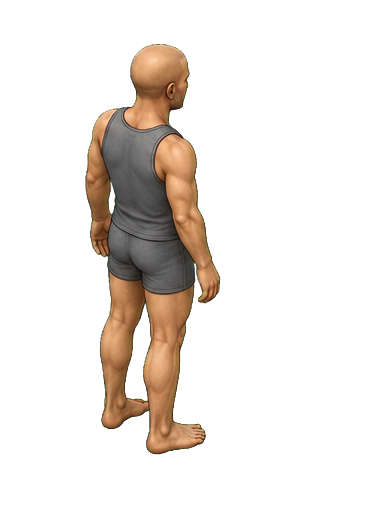
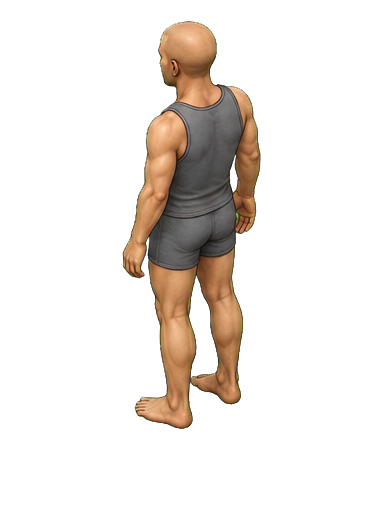
Add modular skin and classic outfit layers

Changed region(s): [[0.2188, 0.0312, 0.6875, 0.9062]]

diff --git a/tools/process-character-layer.py b/tools/process-character-layer.py
@@ -1,0 +1,112 @@
+#!/usr/bin/env python3
+"""Fit a pose-locked red/blue calibration atlas to an accepted body atlas.
+
+The source is a chroma-removed 4x2 RGBA atlas ordered clockwise from south:
+south, south-west, west, north-west, north, north-east, east, south-east.
+Red is the primary tint channel and blue is the secondary tint channel.
+"""
+
+from argparse import ArgumentParser
+from pathlib import Path
+
+import numpy as np
+from PIL import Image
+from scipy import ndimage
+
+DIRECTIONS = [
+    "south", "south_west", "west", "north_west",
+    "north", "north_east", "east", "south_east",
+]
+
+
+def bounds(alpha: np.ndarray) -> tuple[int, int, int, int]:
+    ys, xs = np.where(alpha > 20)
+    if not len(xs):
+        raise ValueError("atlas cell has no opaque subject")
+    return int(xs.min()), int(ys.min()), int(xs.max() + 1), int(ys.max() + 1)
+
+
+def major_components(mask: np.ndarray, count: int = 2, minimum: int = 80) -> np.ndarray:
+    labels, _ = ndimage.label(mask)
+    sizes = np.bincount(labels.ravel())
+    order = np.argsort(sizes[1:])[::-1] + 1
+    result = np.zeros_like(mask, dtype=bool)
+    for label in order[:count]:
+        if sizes[label] >= minimum:
+            result |= labels == label
+    return ndimage.binary_closing(result, iterations=1)
+
+
+def mask_image(mask: np.ndarray, alpha: np.ndarray) -> Image.Image:
+    output = np.zeros((*mask.shape, 4), dtype=np.uint8)
+    output[:, :, :3] = 255
+    output[:, :, 3] = np.where(mask, alpha, 0).astype(np.uint8)
+    return Image.fromarray(output, "RGBA")
+
+
+def neutral_diffuse(source: np.ndarray, keep: np.ndarray, primary: np.ndarray) -> Image.Image:
+    output = source.copy()
+    rgb = output[:, :, :3].astype(np.float32)
+    luminance = (rgb[:, :, 0] * .2126 + rgb[:, :, 1] * .7152 + rgb[:, :, 2] * .0722)
+    primary_value = np.clip(78 + luminance * .68, 70, 230)
+    secondary_value = np.clip(45 + luminance * .56, 42, 190)
+    values = np.where(primary, primary_value, secondary_value).astype(np.uint8)
+    output[:, :, 0] = values
+    output[:, :, 1] = values
+    output[:, :, 2] = values
+    output[:, :, 3] = np.where(keep, output[:, :, 3], 0).astype(np.uint8)
+    return Image.fromarray(output, "RGBA")
+
+
+def main() -> None:
+    parser = ArgumentParser()
+    parser.add_argument("--source", required=True, help="Chroma-removed 1536x1024 RGBA atlas")
+    parser.add_argument("--body", required=True, choices=["base-a", "base-b"])
+    parser.add_argument("--layer", required=True)
+    parser.add_argument("--root", default=".")
+    args = parser.parse_args()
+
+    root = Path(args.root).resolve()
+    source = Image.open(args.source).convert("RGBA")
+    if source.size != (1536, 1024):
+        raise ValueError(f"expected 1536x1024 source, got {source.size}")
+
+    output_root = root / "apps/client-godot/assets/characters/outfits" / args.layer / args.body / "idle"
+    for kind in ("diffuse", "primary-mask", "secondary-mask"):
+        (output_root / kind).mkdir(parents=True, exist_ok=True)
+
+    for index, direction in enumerate(DIRECTIONS):
+        x = index % 4 * 384
+        y = index // 4 * 512
+        cell = source.crop((x, y, x + 384, y + 512)).convert("RGBA")
+        body_path = root / "apps/client-godot/assets/characters/body" / args.body / "idle" / f"{direction}.png"
+        body = Image.open(body_path).convert("RGBA")
+        cell_box = bounds(np.array(cell)[:, :, 3])
+        body_box = bounds(np.array(body)[:, :, 3])
+        fitted = cell.crop(cell_box).resize(
+            (body_box[2] - body_box[0], body_box[3] - body_box[1]),
+            Image.Resampling.LANCZOS,
+        )
+        aligned = Image.new("RGBA", (384, 512), (0, 0, 0, 0))
+        aligned.alpha_composite(fitted, (body_box[0], body_box[1]))
+        pixels = np.array(aligned)
+        alpha = pixels[:, :, 3]
+        hsv = np.array(aligned.convert("HSV"))
+        hue, saturation, value = hsv[:, :, 0], hsv[:, :, 1], hsv[:, :, 2]
+        primary = (alpha > 0) & ((hue < 12) | (hue > 245)) & (saturation > 105) & (value > 32)
+        secondary = (alpha > 0) & (hue >= 145) & (hue <= 190) & (saturation > 100) & (value > 30)
+        primary = major_components(primary)
+        secondary = major_components(secondary)
+        keep = primary | secondary
+        if keep.sum() < 1000:
+            raise ValueError(f"{direction}: calibration channels cover only {keep.sum()} pixels")
+
+        neutral_diffuse(pixels, keep, primary).save(output_root / "diffuse" / f"{direction}.png")
+        mask_image(primary, alpha).save(output_root / "primary-mask" / f"{direction}.png")
+        mask_image(secondary, alpha).save(output_root / "secondary-mask" / f"{direction}.png")
+
+    print(f"wrote {len(DIRECTIONS) * 3} runtime files to {output_root.relative_to(root)}")
+
+
+if __name__ == "__main__":
+    main()

diff --git a/tools/generate-body-skin-layers.py b/tools/generate-body-skin-layers.py
@@ -1,0 +1,40 @@
+#!/usr/bin/env python3
+"""Derive neutral skin diffuse and mask layers from accepted bald body atlases."""
+
+from pathlib import Path
+
+import numpy as np
+from PIL import Image
+
+DIRECTIONS = ["north", "north_east", "east", "south_east", "south", "south_west", "west", "north_west"]
+ROOT = Path(__file__).resolve().parent.parent
+
+for body in ("base-a", "base-b"):
+    output = ROOT / "apps/client-godot/assets/characters/body" / body / "idle"
+    (output / "skin-diffuse").mkdir(parents=True, exist_ok=True)
+    (output / "skin-mask").mkdir(parents=True, exist_ok=True)
+    for direction in DIRECTIONS:
+        source = Image.open(output / f"{direction}.png").convert("RGBA")
+        pixels = np.array(source)
+        rgb = pixels[:, :, :3].astype(np.float32)
+        alpha = pixels[:, :, 3]
+        red, green, blue = rgb[:, :, 0], rgb[:, :, 1], rgb[:, :, 2]
+        maximum = rgb.max(axis=2)
+        minimum = rgb.min(axis=2)
+        saturation = (maximum - minimum) / np.maximum(maximum, 1)
+        skin = (alpha > 0) & (red > green * 1.045) & (green > blue * 1.055) & (saturation > .085)
+        luminance = np.clip(red * .2126 + green * .7152 + blue * .0722, 0, 255).astype(np.uint8)
+
+        diffuse = pixels.copy()
+        diffuse[:, :, 0] = luminance
+        diffuse[:, :, 1] = luminance
+        diffuse[:, :, 2] = luminance
+        diffuse[:, :, 3] = np.where(skin, alpha, 0).astype(np.uint8)
+        Image.fromarray(diffuse, "RGBA").save(output / "skin-diffuse" / f"{direction}.png")
+
+        mask = np.zeros_like(pixels)
+        mask[:, :, :3] = 255
+        mask[:, :, 3] = np.where(skin, alpha, 0).astype(np.uint8)
+        Image.fromarray(mask, "RGBA").save(output / "skin-mask" / f"{direction}.png")
+
+print("wrote 32 body skin runtime files")
